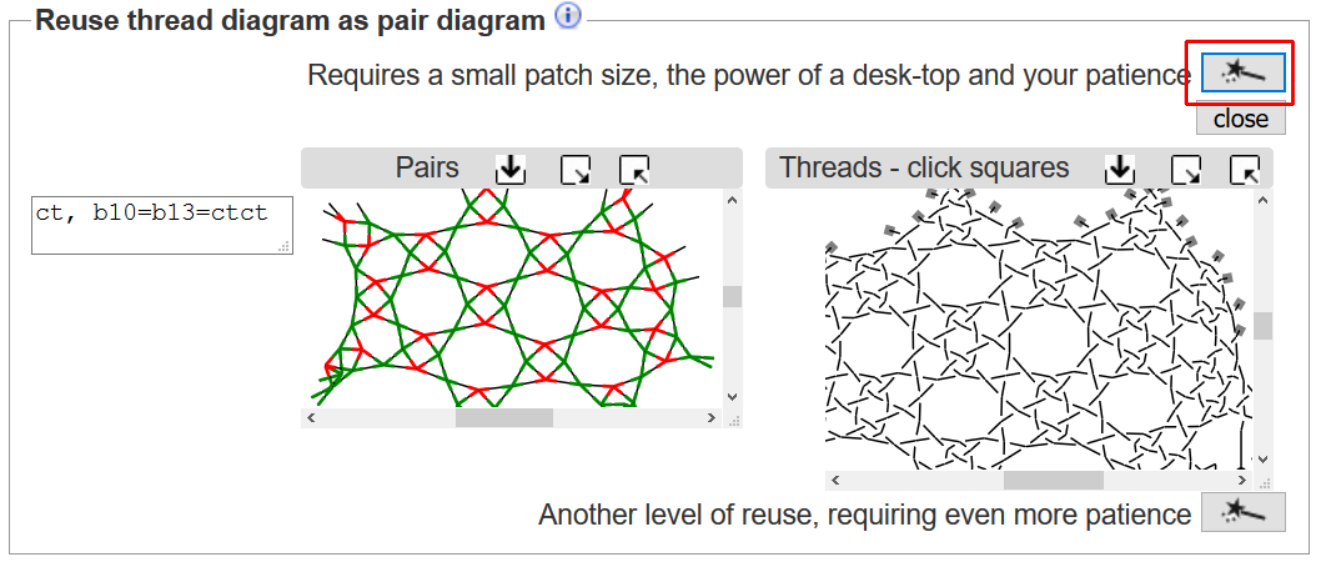
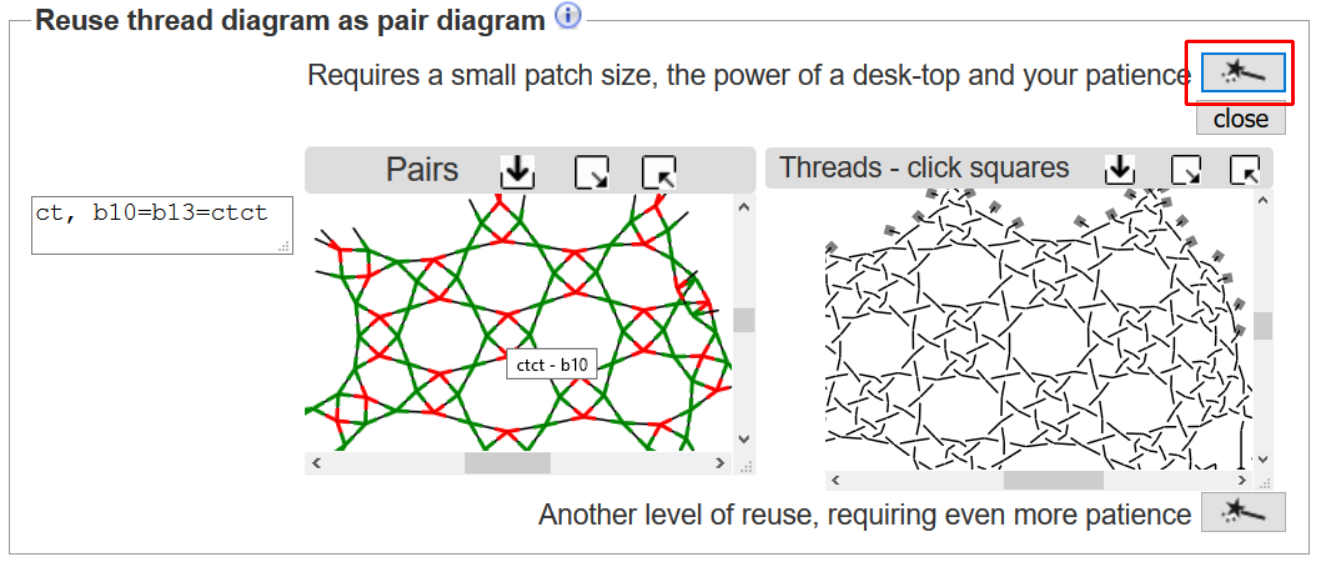
Changes to "reuse thread diagram as pair diagram" instructions.

Changed region(s): [[0.2173, 0.2399, 0.5897, 0.8395], [0.5587, 0.8095, 0.5897, 0.8395]]

diff --git a/docs/help/Advanced.md b/docs/help/Advanced.md
@@ -143,17 +143,17 @@ Thread diagram as pair diagram
 ------------------------------
 **This feature is still under construction.  We welcome any suggestions on how to improve it.**
 
-In a typical pair diagram, two pairs intersect at each crossing and then continue.  In a thread diagram, two threads meet at each crossing and then continue.  So why not take a thread diagram, flatten all the over/under information, and use it as a pair diagram?  In this way, you can create a new, usually more complex pattern.  You can repeat this process over and over again.    In mathematics, this is called ["recursion"](https://en.wikipedia.org/wiki/Recursion).  In art, it is sometimes called the ["Droste effect"](https://en.wikipedia.org/wiki/Droste_effect).
+In a typical pair diagram, two pairs intersect at each crossing and then continue.  In a thread diagram, two threads meet at each crossing and then continue.  So why not take a thread diagram, flatten all the over/under information, and use it as a pair diagram?  Using this technique, you can quickly create a new, usually more complex, pattern.  This process can be repeated over and over again, as long as your computer has enough power to handle the increased complexity.    In mathematics, this is called ["recursion"](https://en.wikipedia.org/wiki/Recursion).  In art, it is sometimes called the ["Droste effect"](https://en.wikipedia.org/wiki/Droste_effect).
 
 ![](images/simple-droste.png)
 
-In GroundForge, click on the ![wand](../images/wand.png) image under the "Reuse thread diagram as pair diagram" heading. 
+To apply this technique in GroundForge, click on the ![wand](../images/wand.png) image under the "Reuse thread diagram as pair diagram" heading. 
  
 ![](images/reuse.png)
 
 There are several options for specifying which stitches appear in the new thread diagram.
 
-By default, every stitch is `ctc`.  You can assign a new default stitch by typing the stitch in the input box that appears to the left of the new pair diagram. You can also assign one stitch to every "cross" in the original thread diagram by typing `cross=ctcll` in the input box.  Similarly, you assign a stitch to every "twist" in the original thread diagram using `twist=cttct`.  You can also specify a stitch for a specific intersection by first finding the identity of the intersection in the new pair diagram (hover over the intersection and the id will appear) and then giving it a new value in the input box such as `b10=clcl`.  You can combine any of these options in the input box.  Use a new line or a comma to separate each instruction. After editing the stitches in the input box, click on the ![wand](../images/wand.png) image **above** the pair diagram.
+By default, every stitch is `ctc`.  You can assign a new default stitch by typing the actions (such as `ct`) in the input box that appears to the left of the new pair diagram. You can also assign a stitch to every "cross" in the original thread diagram by typing `cross=...` (for example, `cross=ctcll`) in the input box.  Similarly, you assign a stitch to every "twist" in the original thread diagram using `twist=...`.  For finer control, you can specify a stitch for a specific intersection.  First find the identity of the intersection in the new pair diagram (hover over the intersection until the id appears), then give it a new value in the input box such as `b10=clcl`.  You can combine any of these options in the input box.  Use a new line or a comma to separate each instruction. After editing the stitches in the input box, click on the ![wand](../images/wand.png) image **above** the pair diagram.
 
 ![](images/droste-assign-stitches.png)
 
